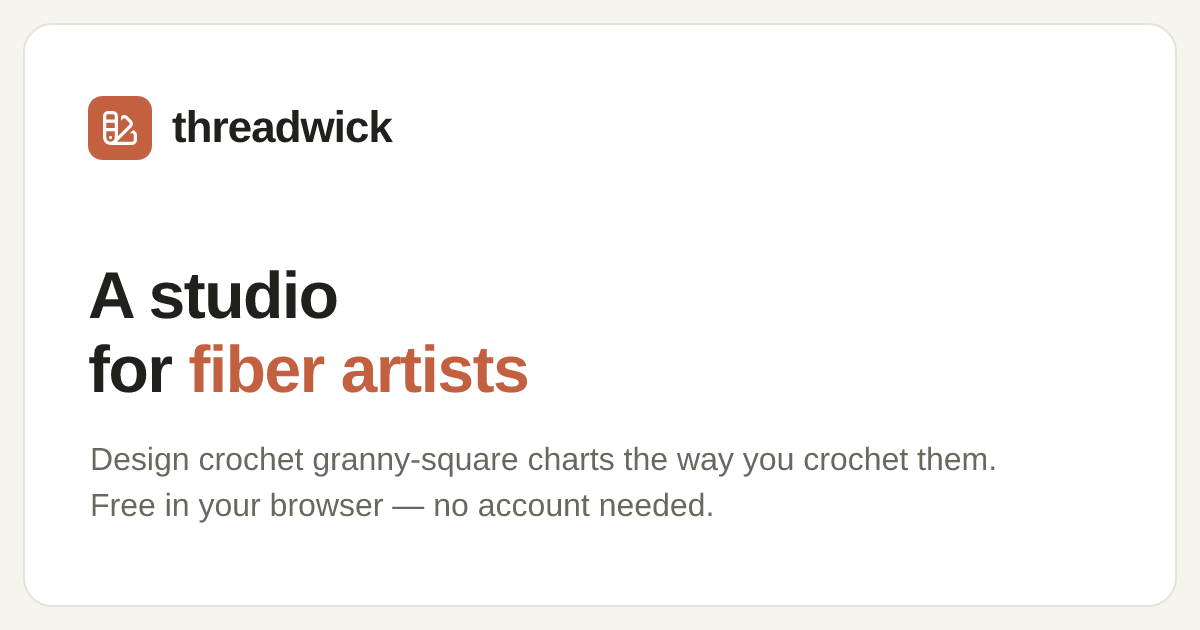
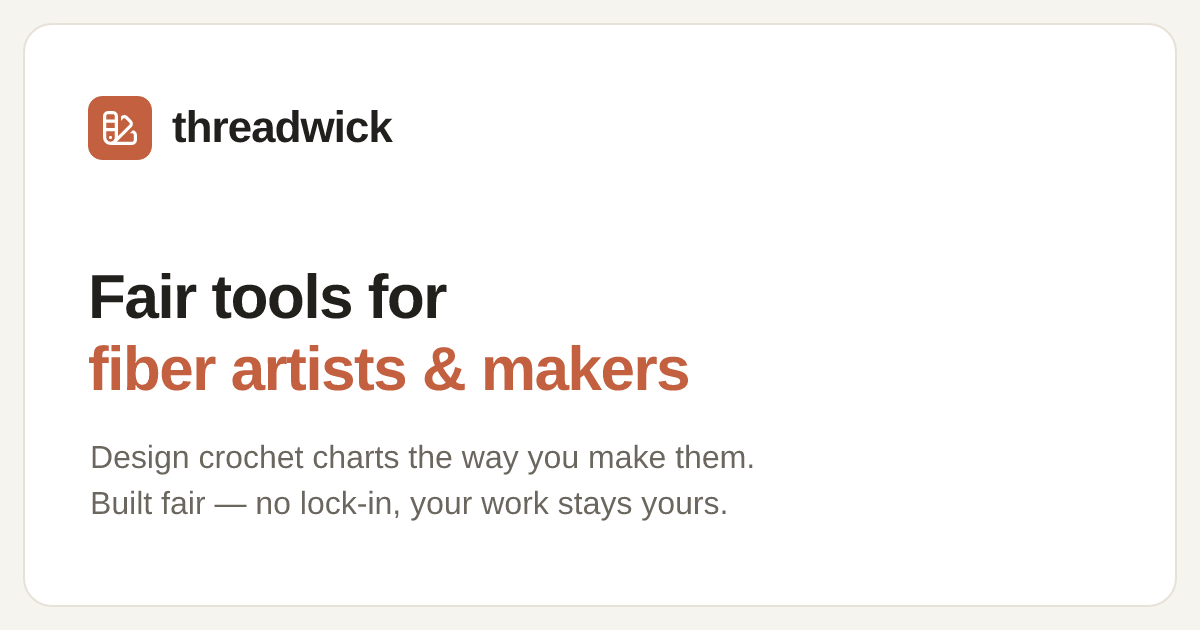
Make fairness for fiber artists & makers the page-wide theme
Add an 'Our promise' manifesto section (built for makers, you keep what you earn,
no lock-in/no tricks, fair pricing everywhere) after the roadmap. Reframe the
hero eyebrow to 'Fair tools for fiber artists & makers' with a fairness line
linking to the promise, thread the value through the account band and footer,
and update the title/description/OG copy + social card.

diff --git a/src/sections/Promise.tsx b/src/sections/Promise.tsx
@@ -1,0 +1,61 @@
+import { SectionHeading } from '../components/SectionHeading';
+import { PLEDGES } from '../data/promise';
+import { colors } from '../theme/tokens';
+
+/** "Our promise" — the fairness manifesto, the spine of the whole page. */
+export function OurPromise() {
+  return (
+    <section
+      aria-labelledby="promise-title"
+      className="tw-section"
+      style={{ background: colors.bgContainer, borderBlock: `1px solid ${colors.borderSecondary}` }}
+    >
+      <div className="tw-container">
+        <SectionHeading
+          id="promise-title"
+          eyebrow="Our promise"
+          title="Fair tools for fiber artists & makers"
+          lead="This isn’t a tagline — it’s how we make decisions. We’re building Threadwick to be fair to the artists who design patterns and the makers who follow them."
+          align="center"
+        />
+        <ul
+          style={{
+            listStyle: 'none',
+            margin: '0 auto',
+            padding: 0,
+            maxWidth: 1000,
+            display: 'grid',
+            gridTemplateColumns: 'repeat(auto-fit, minmax(230px, 1fr))',
+            gap: 'clamp(28px, 3.4vw, 44px)',
+          }}
+        >
+          {PLEDGES.map(({ icon: Icon, title, body }) => (
+            <li key={title} style={{ textAlign: 'center' }}>
+              <span
+                aria-hidden
+                style={{
+                  display: 'grid',
+                  placeItems: 'center',
+                  width: 56,
+                  height: 56,
+                  margin: '0 auto 16px',
+                  borderRadius: 999,
+                  background: colors.primaryWash,
+                  color: colors.primary,
+                }}
+              >
+                <Icon width="1.6em" height="1.6em" />
+              </span>
+              <h3 className="tw-display" style={{ margin: '0 0 8px', fontSize: 18, color: colors.text }}>
+                {title}
+              </h3>
+              <p style={{ margin: 0, fontSize: 14.5, lineHeight: 1.6, color: colors.textSecondary }}>
+                {body}
+              </p>
+            </li>
+          ))}
+        </ul>
+      </div>
+    </section>
+  );
+}

diff --git a/src/data/promise.ts b/src/data/promise.ts
@@ -1,0 +1,34 @@
+import { Community, Globe, HandCash, LockSlash } from 'iconoir-react';
+
+export interface Pledge {
+  icon: typeof Community;
+  title: string;
+  body: string;
+}
+
+/**
+ * Threadwick's core promise — bold principles, deliberately without hard numbers
+ * so they read as commitments of intent, not a price sheet.
+ */
+export const PLEDGES: Pledge[] = [
+  {
+    icon: Community,
+    title: 'Built for fiber artists & makers',
+    body: 'Made by and for the people who design patterns and the people who make from them. Every decision starts with you — not growth charts.',
+  },
+  {
+    icon: HandCash,
+    title: 'You keep what you earn',
+    body: 'When you sell, you keep the large majority. Fees are small, flat and shown up front — no surprises, no creeping cuts.',
+  },
+  {
+    icon: LockSlash,
+    title: 'No lock-in, no tricks',
+    body: 'Your work is yours — export it anytime in open formats and leave whenever you like. No manipulative upsells, no engagement traps, no selling your data.',
+  },
+  {
+    icon: Globe,
+    title: 'Fair pricing, wherever you are',
+    body: 'Pricing that flexes with where you live and what you can spend, so the tools stay within reach — everywhere.',
+  },
+];

diff --git a/index.html b/index.html
@@ -4,10 +4,10 @@
     <meta charset="UTF-8" />
     <meta name="viewport" content="width=device-width, initial-scale=1.0" />
 
-    <title>Threadwick — a studio for fiber artists · design crochet granny-square charts</title>
+    <title>Threadwick — fair tools for fiber artists &amp; makers · crochet chart studio</title>
     <meta
       name="description"
-      content="Threadwick is a home for fiber artists and hobbyists. Threadwick Studio lets you design crochet granny-square charts the way you crochet them, and keep your patterns, yarns, links and notes in one place. Free in your browser — no account needed."
+      content="Fair tools for fiber artists and makers. Threadwick Studio lets you design crochet granny-square charts the way you crochet them — with minimal, transparent fees, no lock-in, and your work always yours. Free in your browser."
     />
     <link rel="canonical" href="https://threadwick.com/" />
     <meta name="theme-color" content="#c2603f" />
@@ -22,22 +22,22 @@
     <meta property="og:type" content="website" />
     <meta property="og:site_name" content="Threadwick" />
     <meta property="og:url" content="https://threadwick.com/" />
-    <meta property="og:title" content="Threadwick — a studio for fiber artists" />
+    <meta property="og:title" content="Threadwick — fair tools for fiber artists &amp; makers" />
     <meta
       property="og:description"
-      content="Design crochet granny-square charts the way you crochet them, and keep your patterns, yarns, links and notes in one place. Free in your browser."
+      content="Design crochet charts the way you make them. Built fair: minimal, transparent fees, no lock-in, and your work always yours."
     />
     <meta property="og:image" content="https://threadwick.com/og-image.png" />
     <meta property="og:image:width" content="1200" />
     <meta property="og:image:height" content="630" />
-    <meta property="og:image:alt" content="Threadwick — a studio for fiber artists" />
+    <meta property="og:image:alt" content="Threadwick — fair tools for fiber artists &amp; makers" />
 
     <!-- Twitter -->
     <meta name="twitter:card" content="summary_large_image" />
-    <meta name="twitter:title" content="Threadwick — a studio for fiber artists" />
+    <meta name="twitter:title" content="Threadwick — fair tools for fiber artists &amp; makers" />
     <meta
       name="twitter:description"
-      content="Design crochet granny-square charts the way you crochet them, and keep your patterns, yarns, links and notes in one place."
+      content="Fair tools for fiber artists and makers — design crochet charts the way you make them. No lock-in, your work stays yours."
     />
     <meta name="twitter:image" content="https://threadwick.com/og-image.png" />
   </head>

diff --git a/src/sections/Hero.tsx b/src/sections/Hero.tsx
@@ -20,7 +20,7 @@ export function Hero() {
               color: colors.primaryActive,
             }}
           >
-            A studio for fiber artists
+            Fair tools for fiber artists &amp; makers
           </p>
 
           <Title
@@ -71,6 +71,13 @@ export function Hero() {
               Free in your browser — no account needed
             </span>
           </div>
+
+          <p style={{ margin: '18px 0 0', fontSize: 14, color: colors.textTertiary }}>
+            Fair by design — minimal fees, no lock-in, your work stays yours.{' '}
+            <a href="#promise" style={{ color: colors.link, fontWeight: 600 }}>
+              Our promise →
+            </a>
+          </p>
         </div>
       </div>
     </section>

diff --git a/src/App.tsx b/src/App.tsx
@@ -6,6 +6,7 @@ import { Faq } from './sections/Faq';
 import { Features } from './sections/Features';
 import { Hero } from './sections/Hero';
 import { HowItWorks } from './sections/HowItWorks';
+import { OurPromise } from './sections/Promise';
 import { Roadmap } from './sections/Roadmap';
 
 export default function App() {
@@ -20,6 +21,9 @@ export default function App() {
         <DesignApproach />
         <div id="roadmap">
           <Roadmap />
+        </div>
+        <div id="promise">
+          <OurPromise />
         </div>
         <div id="features">
           <Features />

diff --git a/src/components/Footer.tsx b/src/components/Footer.tsx
@@ -5,6 +5,7 @@ import { Wordmark } from './Wordmark';
 
 const navLinks = [
   { href: '#roadmap', label: 'What’s coming' },
+  { href: '#promise', label: 'Our promise' },
   { href: '#features', label: 'Features' },
   { href: '#how-it-works', label: 'How it works' },
   { href: '#faq', label: 'FAQ' },
@@ -30,7 +31,7 @@ export function Footer() {
           <div style={{ maxWidth: 320 }}>
             <Wordmark showTagline />
             <p style={{ margin: '14px 0 0', color: colors.textSecondary, fontSize: 14 }}>
-              A home for fiber artists and hobbyists. Design crochet charts the way you make them.
+              Fair tools for fiber artists and makers. Built for the people who make — not investors.
             </p>
           </div>
 

diff --git a/src/sections/AccountBand.tsx b/src/sections/AccountBand.tsx
@@ -33,7 +33,8 @@ export function AccountBand() {
             }}
           >
             Start free right in your browser — your work stays with you. Create an account when you’re
-            ready for more: sync across your devices, keep cloud backups, and share your patterns.
+            ready for more: sync across your devices, keep cloud backups, and share your patterns. Your
+            work is always yours — export it and walk away anytime, no lock-in.
           </Paragraph>
           <div style={{ marginTop: 28 }}>
             <OpenStudioButton size="large" />

diff --git a/src/App.test.tsx b/src/App.test.tsx
@@ -33,6 +33,7 @@ describe('App', () => {
     const main = screen.getByRole('main');
     expect(within(main).getByRole('heading', { name: /chart granny squares the way you crochet them/i })).toBeInTheDocument();
     expect(within(main).getByRole('heading', { name: /what.s on the hook/i })).toBeInTheDocument();
+    expect(within(main).getByRole('heading', { name: /fair tools for fiber artists/i })).toBeInTheDocument();
     expect(within(main).getByRole('heading', { name: /made for keeping projects together/i })).toBeInTheDocument();
     expect(within(main).getByRole('heading', { name: /from idea to chart in minutes/i })).toBeInTheDocument();
     expect(within(main).getByRole('heading', { name: /good to know/i })).toBeInTheDocument();